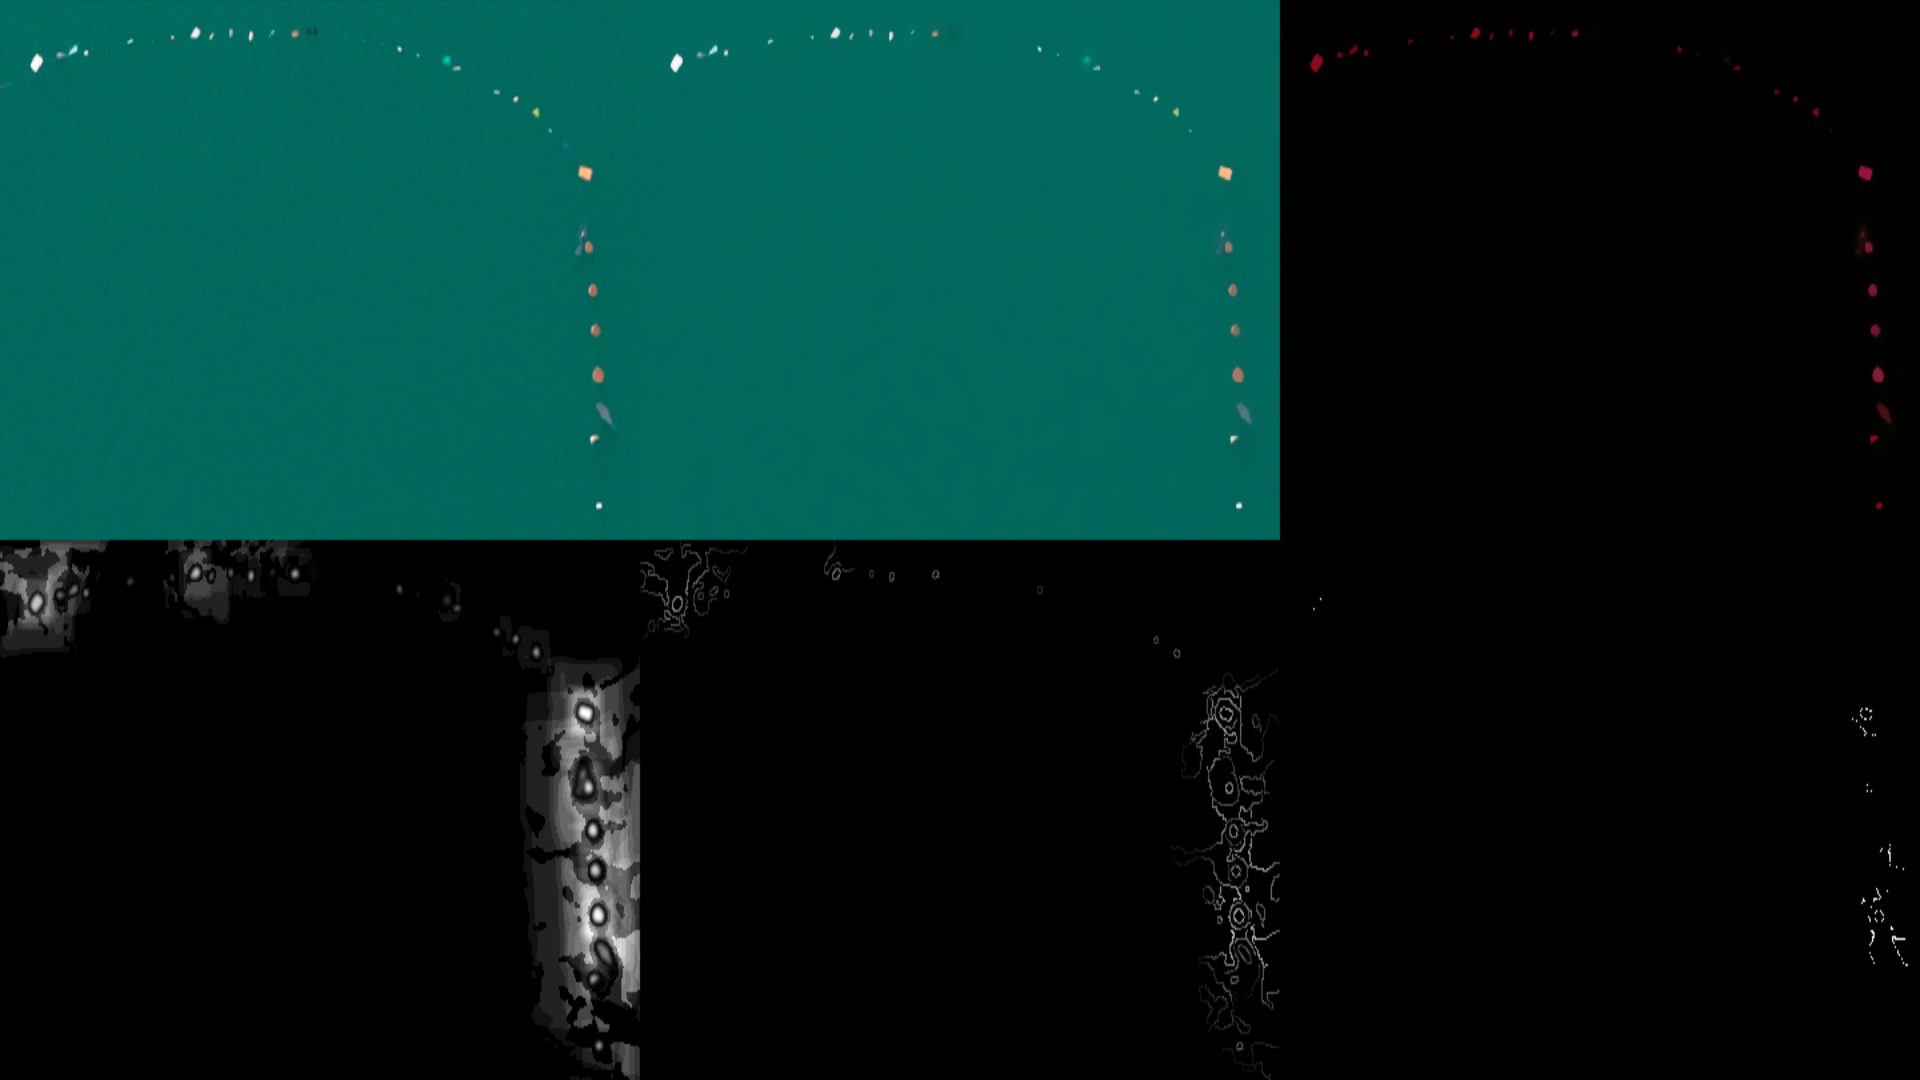
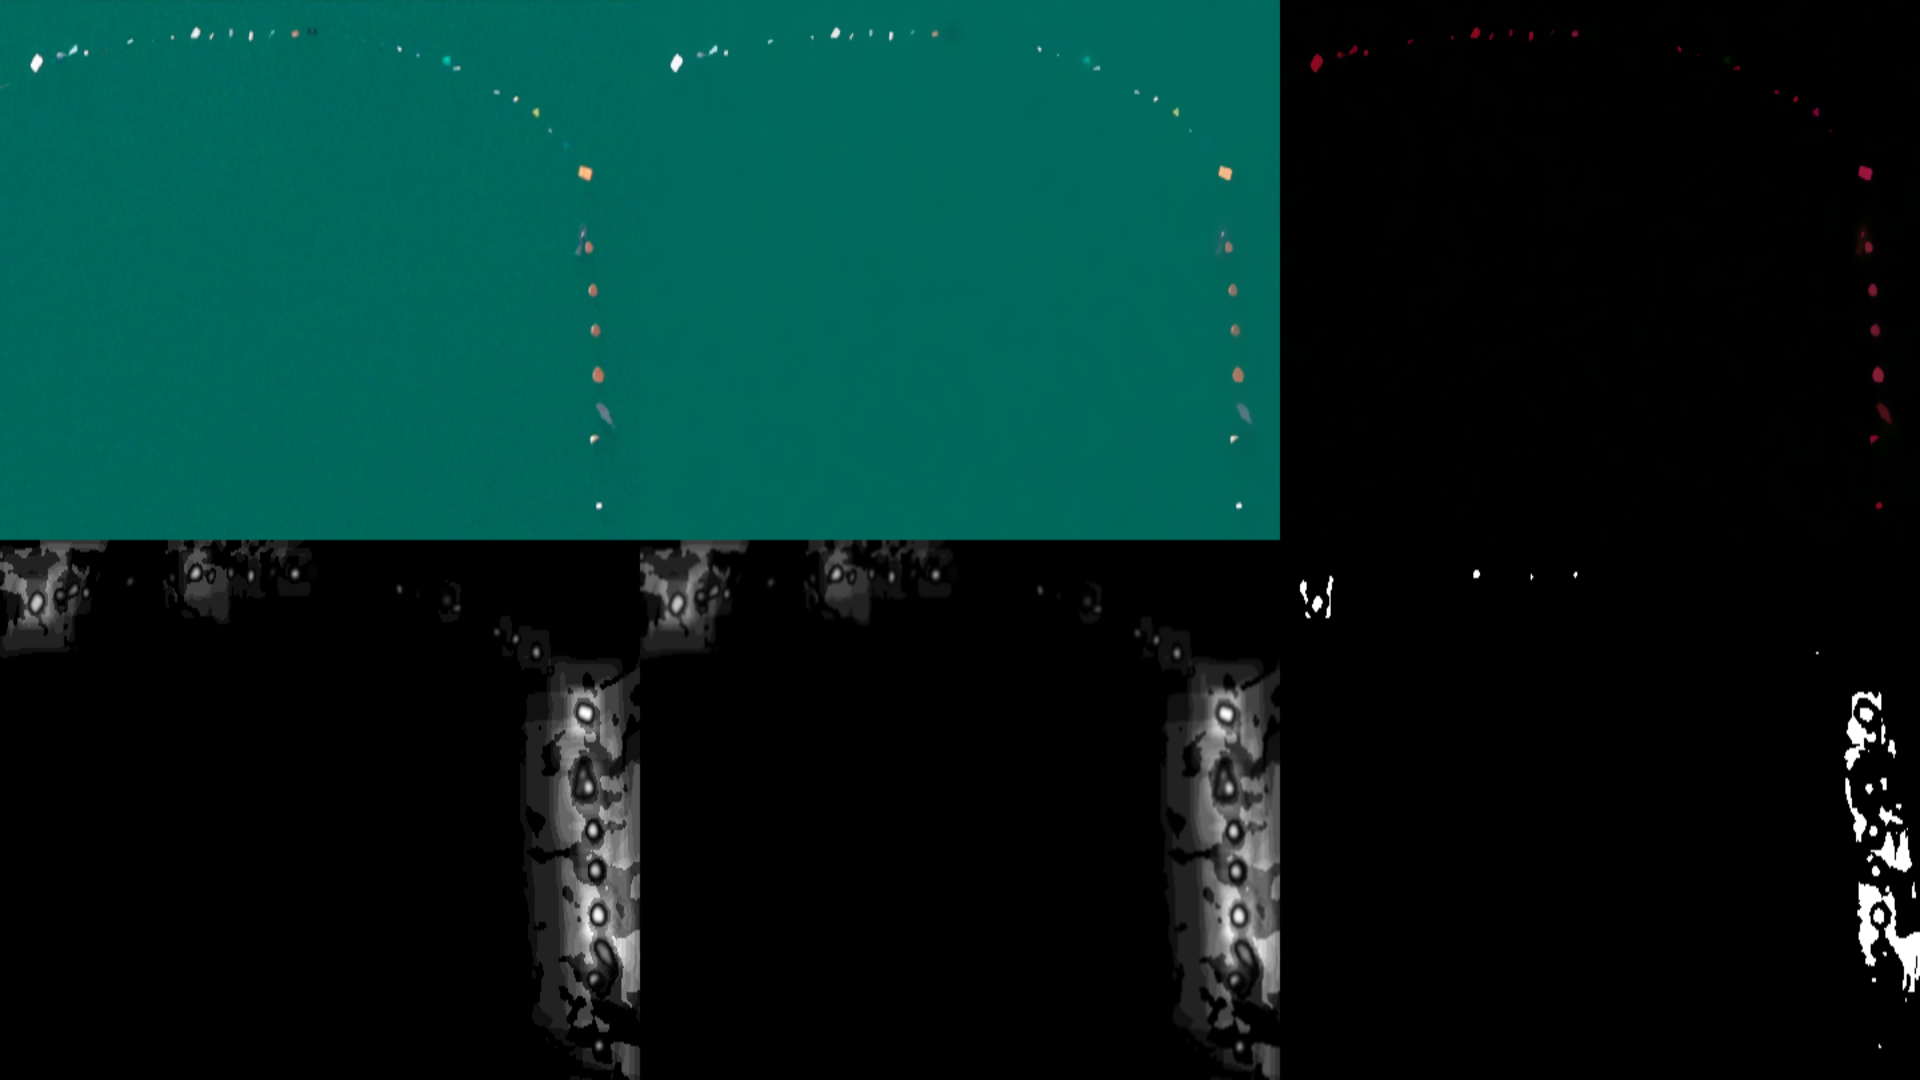
Further progress in color filtering

diff --git a/OpenCV Saliency Detection Testing/pure_color_detection.py b/OpenCV Saliency Detection Testing/pure_color_detection.py
@@ -1,0 +1,135 @@
+import numpy as np
+import cv2
+import time
+import os
+import sys
+
+print(sys.argv)
+
+### Set variables
+
+## Standard image resolutions
+# Downsize resolution
+hi = 720
+wi = 1270
+# Concat output resolution
+con_hi = 1080
+con_wi = 1920
+
+## Preprocessing variables
+blur_str = 0.015
+color_filter_lower_thresh = 25
+
+## Preprocessing options
+downsize                = 1
+color_filtering         = 1
+bilat_filtering         = 1
+
+# Data directory paths
+in_dataset  = os.path.join(os.getcwd(), 'Input_Dataset')
+conc_output = os.path.join(os.getcwd(), 'Color_Concat_Outputs')
+cont_output = os.path.join(os.getcwd(), 'Conture_Outputs')
+
+## Prepare script
+# Load images from folder into array
+onlyfiles = [ f for f in os.listdir(in_dataset) if os.path.isfile(os.path.join(in_dataset,f)) ]
+images = np.empty(len(onlyfiles), dtype=object)
+for n in range(0, len(onlyfiles)):
+  images[n] = cv2.imread( os.path.join(in_dataset,onlyfiles[n]) )
+
+# Some user interface stuff
+print("Processing images in folder ", in_dataset, "(", len(onlyfiles), " objects )\n")
+if downsize:
+    print("Images will be downsized to ", hi, "x",wi)
+print("\n")
+
+## Main Loop
+# For each image in list, perform saliency stuff
+for i in range(0,len(images)):
+    start_time = time.time()
+
+    # Extract image
+    frame = images[i]
+
+    ## Image preprocessing
+    blur_rad = int (frame.shape[0]*blur_str)
+
+    print('Processing image "',onlyfiles[i],'", ',i+1,'/',len(images),'. Shape: ', frame.shape)
+    preprocessed_frame = frame.copy()
+
+    if downsize:        # Resize images to standard resolution
+        frame = cv2.resize(frame,(wi, hi))
+        preprocessed_frame = frame.copy()
+    if bilat_filtering: # Bilateral Filter on input image
+        preprocessed_frame = cv2.bilateralFilter(preprocessed_frame, 13, 69,69)
+
+    ## Color filtering
+    col_filtd = preprocessed_frame.copy()
+
+    # Blur image
+    col_filtd = cv2.blur(col_filtd, (blur_rad, blur_rad))
+    
+    #Convert to floating-point / normalize values
+    col_filtd = col_filtd/255.0
+
+    # Normalize colors
+    for c in range(3):
+        col_filtd[:,:,c] = col_filtd[:,:,c] / (1.0/255.0 + col_filtd[:,:,0] + col_filtd[:,:,1] + col_filtd[:,:,2]) # Normalize colors
+    
+    # Normalize brightness
+    for c in range(3):
+        print("Max in channel c: ", np.max(col_filtd[:,:,c]))
+        col_filtd[:,:,c] = (col_filtd[:,:,c]/np.max(col_filtd[:,:,c]))
+        print("Max in channel c: ", np.max(col_filtd[:,:,c]))
+
+    # Compute channel-wise averages
+    avg_color_per_row = np.average(col_filtd, axis=0)
+    avg_color = (np.average(avg_color_per_row, axis=0))#*255).astype(int)
+    print("Average normalized color values, BGR: ",avg_color)
+
+    # For each channel, compute pixel-wise distance from average
+    color_deviancy = np.zeros(col_filtd.shape)
+    for c in range(0,3):
+        color_deviancy[:,:,c] = np.absolute(col_filtd[:,:,c] - avg_color[c])
+        
+    color_deviancy = (color_deviancy*255).astype(np.ubyte)  # Convert result to image-readable format
+
+    _disc, threshed_detections = cv2.threshold(color_deviancy,color_filter_lower_thresh,255,cv2.THRESH_BINARY)
+    
+    threshed_detections = cv2.morphologyEx(threshed_detections, cv2.MORPH_OPEN, np.ones((5,5), np.uint8))
+    
+    ## Detection
+    """
+    def get_centroids(self):
+        contours, _ = cv2.findContours(self.image_processed, cv2.RETR_TREE, cv2.CHAIN_APPROX_SIMPLE)
+        centroids = np.zeros((2, len(contours)))
+        contours = list(contours)
+        for i in range(len(self.contours)):
+            contours[i] = np.squeeze(contours[i], axis=1)
+            centroids[:,i] = np.mean(contours[i], axis=0)
+    """
+    
+    
+    ## Image post-processing
+    # Image Merging
+    hcon1 = cv2.hconcat([frame, preprocessed_frame])
+    hcon2 = cv2.hconcat([color_deviancy, threshed_detections])
+    displ = cv2.vconcat([hcon1, hcon2])
+
+    # Downsize concat image
+    displ = cv2.resize(displ, (con_wi, con_hi))
+
+    # Timings
+    end_time = time.time()
+    proc_time = round(end_time - start_time, 3)
+    print('Processing time: ', proc_time, ' [s]')
+
+    # Save outputs
+    im_name_conc = str ('concatd_' + onlyfiles[i])
+    im_name_cont = str ('contured_' + onlyfiles[i])
+    cv2.imwrite(os.path.join(conc_output , im_name_conc), displ)
+    #cv2.imwrite(os.path.join(cont_output, im_name_cont), drawn_im)
+
+
+## Close webcam
+cv2.destroyAllWindows()

diff --git a/OpenCV Saliency Detection Testing/saliency+canny-edge_batch_process.py b/OpenCV Saliency Detection Testing/saliency+canny-edge_batch_process.py
@@ -18,15 +18,21 @@ con_hi = 1080
 con_wi = 1920
 
 ## Preprocessing variables
-blur_str = 0.01
+blur_str = 0.02
 color_filter_lower_thresh = 10
+# Canny Edge Detection
+low_threshold = 100
+ratio = 3
+kernel_size = 5
+CED_threshold_lower = 150
 
 ## Preprocessing options
-preblurring     = 0
-downsize        = 1
-color_filtering = 1
-denoise         = 0
-bilat_filtering = 1
+preblurring             = 0
+downsize                = 1
+color_filtering         = 1
+denoise                 = 0
+bilat_filtering         = 1
+canny_edge_detection    = 0
 
 # Data directory paths
 in_dataset  = os.path.join(os.getcwd(), 'Input_Dataset')
@@ -93,9 +99,7 @@ for i in range(0,len(images)):
         for c in range(0,3):
             color_deviancy[:,:,c] = np.absolute(col_filtd[:,:,c] - avg_color[c])
         
-        # 
-        color_deviancy = (color_deviancy*255).astype(np.ubyte)
-        col_filtd = (col_filtd*255).astype(np.ubyte)    # Convert result to image-readable format
+        color_deviancy = (color_deviancy*255).astype(np.ubyte)  # Convert result to image-readable format
 
     # Perform saliency
     saliency = cv2.saliency.StaticSaliencyFineGrained_create()
@@ -103,26 +107,29 @@ for i in range(0,len(images)):
     saliencyMap = (saliencyMap*255).astype("uint8")
 
     # Blur saliency map
-    sali_blur_rad = int (saliencyMap.shape[0]*0.01)
+    sali_blur_rad = int (saliencyMap.shape[0]*blur_str)
     processed_sali_map = saliencyMap.copy()
     processed_sali_map = cv2.blur(processed_sali_map,[sali_blur_rad, sali_blur_rad])
 
     # Canny Edge Detector
-    low_threshold = 100
-    ratio = 3
-    kernel_size = 5
-    detected_edges = cv2.Canny(processed_sali_map, low_threshold, low_threshold*ratio, kernel_size)
-    mask = detected_edges != 0
-    dst = cv2.cvtColor(processed_sali_map, cv2.COLOR_GRAY2BGR) * (mask[:,:,None].astype(frame.dtype))
+    if canny_edge_detection:
+        detected_edges = cv2.Canny(processed_sali_map, low_threshold, low_threshold*ratio, kernel_size)
+        mask = detected_edges != 0
+        dst = cv2.cvtColor(processed_sali_map, cv2.COLOR_GRAY2BGR) * (mask[:,:,None].astype(frame.dtype))
 
-    # Threshold
-    _disc, threshed_detections = cv2.threshold(dst,150,255,cv2.THRESH_BINARY)
+        # Threshold
+        _disc, threshed_detections = cv2.threshold(dst,CED_threshold_lower,255,cv2.THRESH_BINARY)
+    else:
+        _disc, threshed_detections = cv2.threshold(processed_sali_map,150,255,cv2.THRESH_BINARY)
     
     ## Image post-processing
+    saliencyMap = cv2.cvtColor(saliencyMap, cv2.COLOR_GRAY2BGR)
+    processed_sali_map = cv2.cvtColor(processed_sali_map, cv2.COLOR_GRAY2BGR)
+    threshed_detections = cv2.cvtColor(threshed_detections, cv2.COLOR_GRAY2BGR)
+
     # Image Merging
-    print(frame.dtype, preprocessed_frame.dtype, color_deviancy.dtype)
     hcon1 = cv2.hconcat([frame, preprocessed_frame, color_deviancy])
-    hcon2 = cv2.hconcat([cv2.cvtColor(saliencyMap, cv2.COLOR_GRAY2BGR), dst, threshed_detections])
+    hcon2 = cv2.hconcat([saliencyMap, processed_sali_map, threshed_detections])
     displ = cv2.vconcat([hcon1, hcon2])
 
     # Downsize concat image
